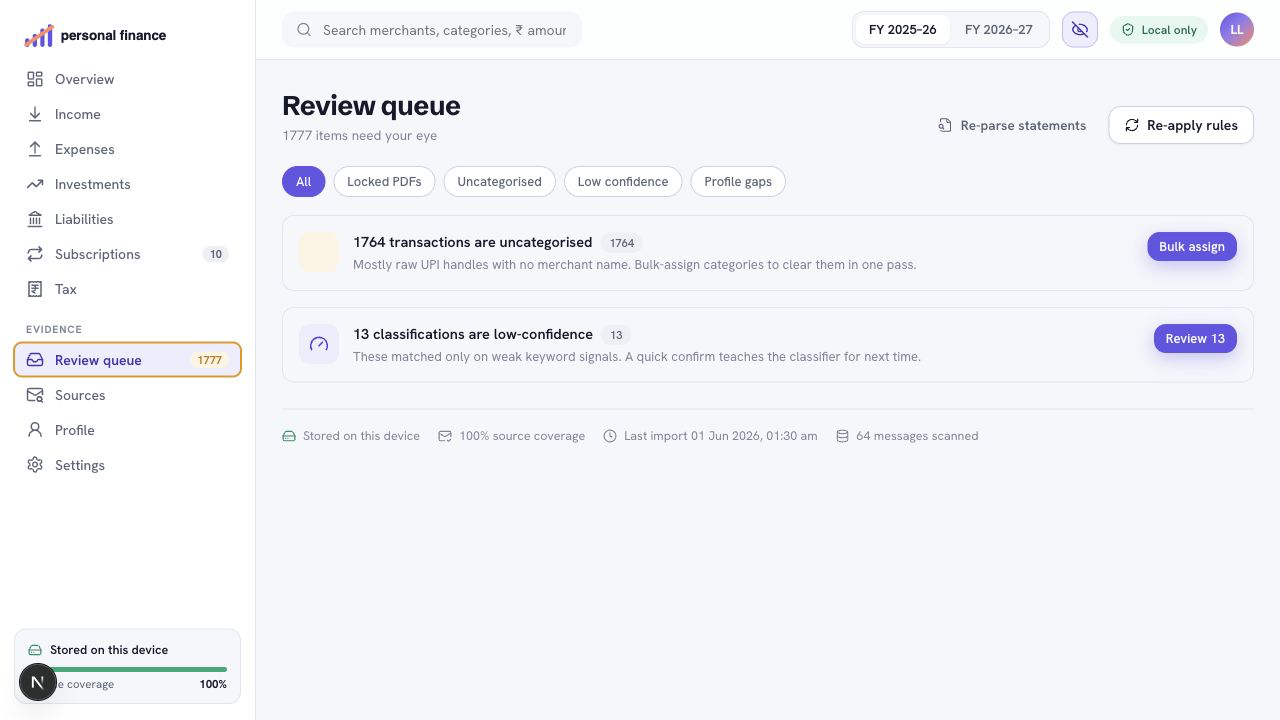
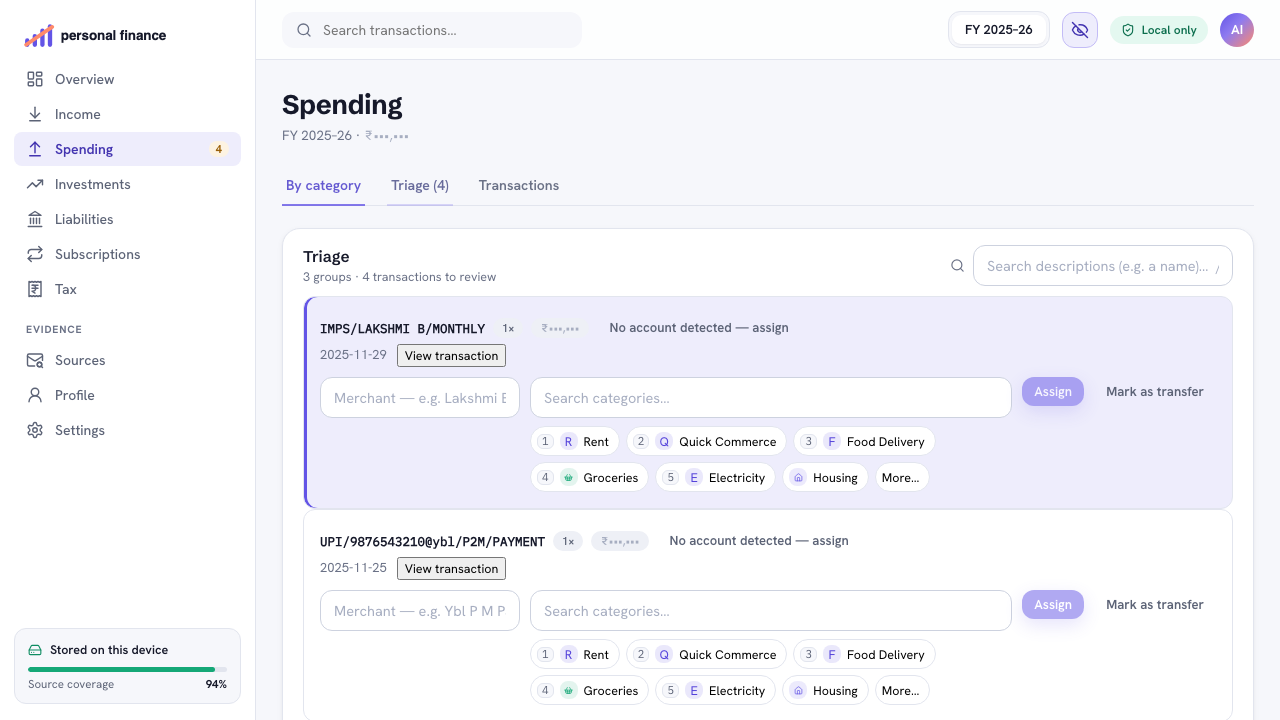
README screenshots re-captured on the new design; bold-join copy fixes
All three screenshots (overview, review triage, sources) re-shot at
1280x720 from a production build against a scratch DB seeded with the
fictional Aditya Iyer persona (the same fiction the deleted fixtures
used) — masked amounts, keycap chips and progress header visible in the
triage shot, live coverage in sources.

The sources capture exposed another instance of the bold-join bug: the
compiled output drops the space in '<b>…</b> text' JSX, rendering
"read-onlyand runs". Fixed with explicit {' '} joiners there and at the
two remaining at-risk sites (Tax tips, Subscriptions renewal note),
matching the earlier Tax-disclaimer fix.

diff --git a/src/ui/pages/Sources.tsx b/src/ui/pages/Sources.tsx
@@ -216,7 +216,8 @@ export function Sources() {
           <Icon name="shield-check" size={16} />
         </span>
         <span>
-          Every query is <b>read-only</b> and runs against Google&apos;s API directly from this machine. Attachments are written to a
+          Every query is <b>read-only</b>{' '}
+          and runs against Google&apos;s API directly from this machine. Attachments are written to a
           gitignored local folder. No third party ever sees your inbox.
         </span>
       </div>

diff --git a/src/ui/pages/Subscriptions.tsx b/src/ui/pages/Subscriptions.tsx
@@ -182,7 +182,8 @@ export function Subscriptions() {
             <div className="note info" style={{ marginTop: 16 }}>
               <span className="ic"><Icon name="calendar-clock" size={16} /></span>
               <span>
-                Next renewal — <b>{upcoming.name}</b> (<Money amount={upcoming.amt} />) around {upcoming.next}. Reminders stay on this device; we never email or charge you.
+                Next renewal — <b>{upcoming.name}</b>{' '}
+                (<Money amount={upcoming.amt} />) around {upcoming.next}. Reminders stay on this device; we never email or charge you.
               </span>
             </div>
           )}

diff --git a/src/ui/pages/Tax.tsx b/src/ui/pages/Tax.tsx
@@ -229,7 +229,8 @@ function TaxContent({
                 <Icon name="lightbulb" size={16} />
               </span>
               <div className="body">
-                <b>{masked ? redactInr(tip.t) : tip.t}</b> {masked ? redactInr(tip.d) : tip.d}
+                <b>{masked ? redactInr(tip.t) : tip.t}</b>{' '}
+                {masked ? redactInr(tip.d) : tip.d}
               </div>
             </div>
           ))}